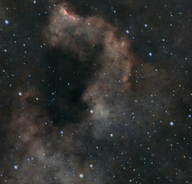
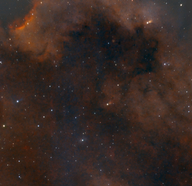
Northam

diff --git a/Stories/Astropedia.md b/Stories/Astropedia.md
@@ -73,6 +73,8 @@
 | <img src='..//Stories//Pics/Milky_Way.jpg'> |The Milky Way or Milky Way Galaxy[c] is the galaxy that includes the Solar System, with the name describing the galaxy's appearance from Earth: a hazy band of light seen in the night sky formed from stars in other arms of the galaxy, which are so far away that they cannot be individually distinguished by the naked eye. The Milky Way is a barred spiral galaxy with a D25 isophotal diameter estimated at 26.8 ± 1.1 kiloparsecs (87,400 ± 3,600 light-years),[10] but only about 1,000 light-years thick at the spiral arms (more at the bulge). Recent simulations suggest that a dark matter area, also containing some visible stars, may extend up to a diameter of almost 2 million light-years (613 kpc).[28][29] The Milky Way has several satellite galaxies and is part of the Local Group of galaxies, forming part of the Virgo Supercluster which is itself a component of the Laniakea Supercluster.[30][31] |
 | [Monkey Head Nebula](..//Stories//Monkey_Head_Nebula.md)  | |
 | <img src='..//Stories//Pics/Monkey_Head_Nebula.jpg'> |NGC 2174 (also known as Monkey Head Nebula) is an H II[1] emission nebula located in the constellation Orion and is associated with the open star cluster NGC 2175.[1] It was discovered on 6 February 1877 by French astronomer Édouard Stephan.[2] It is thought to be located about 6,400 light-years away from Earth. The nebula may have formed through hierarchical collapse.[3] There is some equivocation in the use of the identifiers NGC 2174 and NGC 2175. These may apply to the entire nebula, to its brightest knot, or to the star cluster it includes. Burnham's Celestial Handbook lists the entire nebula as 2174/2175 and does not mention the star cluster.[4] The NGC Project (working from the original descriptive notes) assigns NGC 2174 to the prominent knot at J2000 06h 09m 23.7s, +20° 39′ 34″ and NGC 2175 to the entire nebula, and by extension to the star cluster.[5] SIMBAD uses NGC 2174 for the nebula and NGC 2175 for the star cluster.[1] [6] Glowing gas and dark dust do not survive well in the Monkey Head Nebula. Young stars near the center of the nebula generate stellar winds and high energy radiation that causes the nebula's material to shift into complex shapes.[7] The nebula is primarily composed of hydrogen which glows at infrared wavelengths due to the radiation.[8] |
+| [Northamerica Nebula](..//Stories//Northamerica_Nebula.md)  | |
+| <img src='..//Stories//Pics/Northamerica_Nebula.jpg'> |The North America Nebula (NGC 7000 or Caldwell 20) is an emission nebula in the constellation Cygnus, close to Deneb (the tail of the swan and its brightest star) in the night sky. It is named because its shape resembles North America. |
 | [Orion Nebula](..//Stories//Orion_Nebula.md)  | |
 | <img src='..//Stories//Pics/Orion_Nebula.jpg'> |The Orion Nebula (also known as Messier 42, M42, or NGC 1976) is a diffuse nebula situated in the Milky Way, being south of Orion's Belt in the constellation of Orion,[b] and is known as the middle "star" in the "sword" of Orion. It is one of the brightest nebulae and is visible to the naked eye in the night sky with an apparent magnitude of 4.0. It is 1,344 ± 20 light-years (412.1 ± 6.1 pc) away[3][6] and is the closest region of massive star formation to Earth. The M42 nebula is estimated to be 24 light-years across (so its apparent size from Earth is approximately 1 degree). It has a mass of about 2,000 times that of the Sun. Older texts frequently refer to the Orion Nebula as the Great Nebula in Orion or the Great Orion Nebula.[7] The Orion Nebula is one of the most scrutinized and photographed objects in the night sky and is among the most intensely studied celestial features.[8] The nebula has revealed much about the process of how stars and planetary systems are formed from collapsing clouds of gas and dust. Astronomers have directly observed protoplanetary disks and brown dwarfs within the nebula, intense and turbulent motions of the gas, and the photo-ionizing effects of massive nearby stars in the nebula. |
 | [Pacman Nebula](..//Stories//Pacman_Nebula.md)  | |

diff --git a/Stories/Northamerica_Nebula.md b/Stories/Northamerica_Nebula.md
@@ -1,7 +1,7 @@
 # ![](..//Imaging//Common/pyl-tiny.png) Northamerica Nebula
 ![](..//Imaging//HD/Northamerica_Nebula+00+co.jpg)
 
-The Heart Nebula (also known as the Running Dog Nebula, Sharpless 2-190) is an emission nebula, 7500 light years away from Earth and located in the Perseus Arm of the Galaxy in the constellation Cassiopeia. It was discovered by William Herschel on 3 November 1787.[1] It displays glowing ionized hydrogen gas and darker dust lanes.[2]. The brightest part of the nebula (a knot at its western edge) is separately classified as NGC 896, because it was the first part of the nebula to be discovered. The nebula's intense red output and its morphology are driven by the radiation emanating from a small group of stars near the nebula's center. This open cluster of stars, known as Collinder 26, Melotte 15, or IC 1805, contains a few bright stars nearly 50 times the mass of the Sun, and many more dim stars that are only a fraction of the Sun's mass.[1]. The Heart Nebula is also made up of ionised oxygen and sulfur gasses, responsible for the rich blue and orange colours seen in narrowband images. The shape of the nebula is driven by stellar winds from the hot stars in its core. The nebula also spans almost 2 degrees in the sky, covering an area four times that of the diameter of the full moon.[3]
+The North America Nebula (NGC 7000 or Caldwell 20) is an emission nebula in the constellation Cygnus, close to Deneb (the tail of the swan and its brightest star) in the night sky. It is named because its shape resembles North America.
 
 [![](..//Imaging//Common/Wikipedia.png) Read more](https://en.wikipedia.org/wiki/North_America_Nebula)
 ## Plate solving 
@@ -14,11 +14,16 @@ The Heart Nebula (also known as the Running Dog Nebula, Sharpless 2-190) is an e
 | ----- | ----- | ----- |
 |![IMG](..//Imaging//HD/Northamerica_Nebula_Globe.jpg) |![IMG](..//Imaging//HD/Northamerica_Nebula_Close.jpg) 
 
+## Details
+
+
+| | | |
+| :---: | :---: | :---:|
+| |<img src="..//Imaging//HD/Northamerica_Nebula+BITE00+45+42.jpg" width="200"> | 42 ly |
+| |45 ly | |
+
+
 ## Gallery
 ![IMG](..//Imaging//HD/Northamerica_Nebula+00+co.jpg) 
-
-![IMG](..//Imaging//HD/Northamerica_Nebula+01+co.jpg) 
-
-![IMG](..//Imaging//HD/Northamerica_Nebula+02+co.jpg) 
 
 ![](..//Imaging//HD/Northamerica_Nebula+00+bg.jpg)
